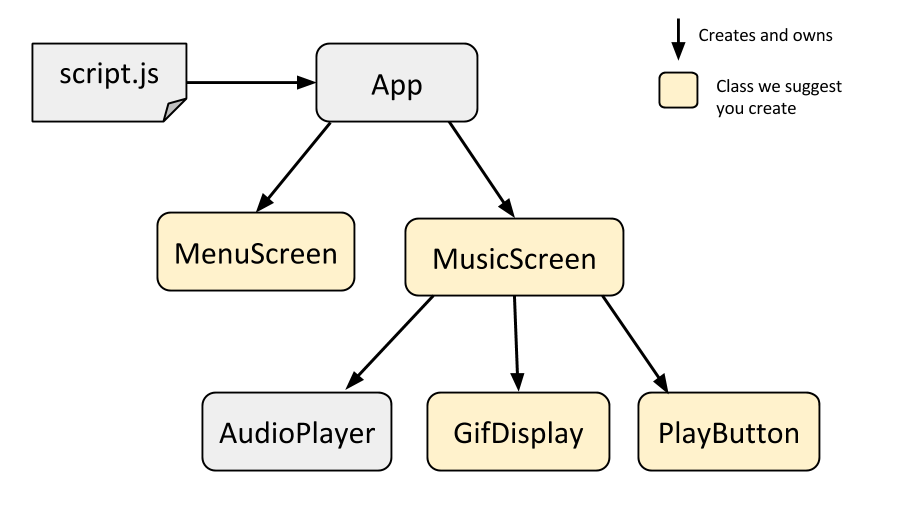
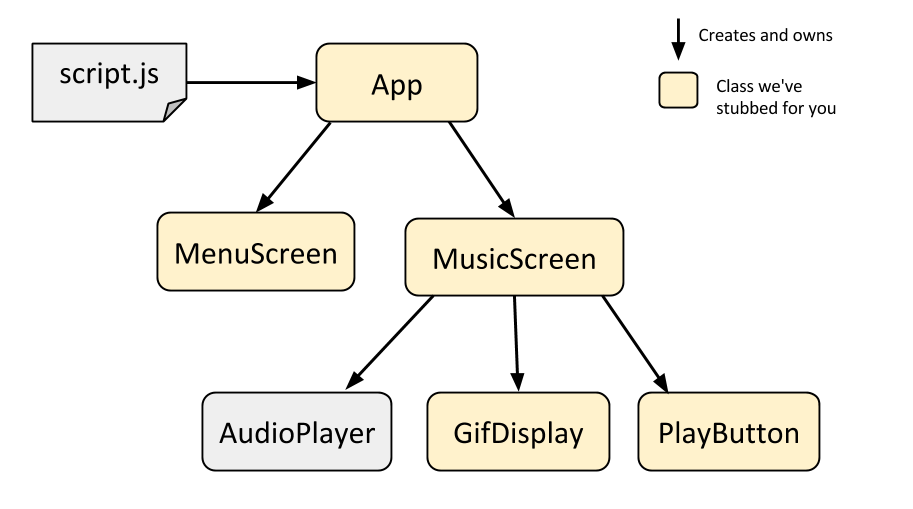
add image

Changed region(s): [[0.3373, 0.0884, 0.5214, 0.2358], [0.7667, 0.1473, 0.92, 0.2358]]

diff --git a/homework/hw4-musicbox-milestones.md b/homework/hw4-musicbox-milestones.md
@@ -2,7 +2,7 @@
 layout: article-nosidebar
 title: 'Music Box'
 subtitle: 'Homework 4'
-permalink: /homework/4-musicbox-milestones
+permalink: /homework/4-musicbox
 parent: homework
 active: 'homework'
 ---
@@ -16,8 +16,11 @@ This assignment gives you more practice with object-oriented (OO) web programmin
 
 Note that we will not grade on having good OO design. However, we do expect you to implement HW4 using an object-oriented approach. You must use classes and you **cannot** add any global state variables.
 
-<span class="label">Due Date:</span> Wed, May 17, 2017 at 11:59pm _(late cutoff: Fri, May 19, 2017 at 11:59pm)_
+<span class="label">Due Date:</span> Wed, May 17, 2017 at 11:59pm _(late cutoff: Fri, May 19, 2017 at 11:59pm)_  
 <span class="label">HW4 Turn-in:</span> [Submission Form](https://goo.gl/forms/9DvS1MGo8J3JLInN2)
+
+
+(**Special thanks to our TA Amy Xu** for her enormous help milestone-ifying the HW4 write-up!)
 
 ---
 
@@ -93,9 +96,9 @@ Method name | Description
 
  The `AudioPlayer` class uses an [Audio element](https://developer.mozilla.org/en-US/docs/Web/HTML/Element/audio) for audio playback and the [dancer.js](https://github.com/jsantell/dancer.js) library to detect kicks in the song. Dancer.js is built natively in the browser using the [Web Audio API](https://developer.mozilla.org/en-US/docs/Web/API/Web_Audio_API).
 
-### 3. `App` and `script.js`
+### 3. Class stubs and `script.js`
 {:.no_toc}
- We have created a stub `App` class that represents the entire music visualizer, similar to how the `App` class represented the entire Flashcard app in HW3. We also provide a `script.js` that creates an instance of the `App` class.
+ We have created stub classes for all the classes we expect you write write: see [Class Decomposition](#class-decomposition) for details. We also provide a `script.js` that creates an instance of the `App` class.
 
 </section>
 
@@ -107,17 +110,14 @@ We recommend you architect your program in the following way:
 
 <img src="images/hw4-class-architecture.png" class="screenshot" />
 
-Create 4 new JavaScript classes:
-- `MenuScreen` Represents the menu screen that you see when you first load the music visualizer.
-- `MusicScreen`: Represents the music visualizer screen, i.e. the screen that you see after you select a song. Creates the `AudioPlayer` as well as the classes below:
-  - `GifDisplay:` Represents the gif display area. Keeps track of which gif is being shown and can select a new random gif to be shown.
-  - `PlayButton:` Represents the play button. Clicking on it toggles audio playback.
+We have given you stubs for the following classes that we'd like you fill out:
+- `App:` Represent the music visualizer as a whole, similar to the role that the `App` class played in HW3. Creates and owns the `MenuScreen` and `MusicScreen`.
+  - `MenuScreen:` Represents the menu screen that you see when you first load the music visualizer.
+  - `MusicScreen:` Represents the music visualizer screen, i.e. the screen that you see after you select a song. Creates the `AudioPlayer` as well as the classes below:
+    - `GifDisplay:` Represents the gif display area. Keeps track of which gif is being shown and can select a new random gif to be shown.
+    - `PlayButton:` Represents the play button. Clicking on it toggles audio playback.
 
-Modify `App` to create the `MenuScreen` and the `MusicScreen`.
-
-**Hints:**
-- When you add new JavaScript files in your project, make sure to include them in your HTML (`<script src="app.js" defer></script>`).
-- To avoid errors, list them in the order of most specific (ie. file for `PlayButton`) to least specific (ie. `app.js`, `script.js`).
+**Note:** If you accepted your HW4 assignment from GitHub before 5/10 at 6:30pm, you did not receive stubs for these classes. You can see the updated starter code here: [hw4-starter](https://github.com/yayinternet/hw4-starter) (you're not missing much.)
 
 ### Optional: Using a different class breakdown
 {:.no_toc}
@@ -125,6 +125,10 @@ Modify `App` to create the `MenuScreen` and the `MusicScreen`.
 **Note:** The HW4 spec is written with the assumption that you have structured your app in the way that we've recommended above. However, you don't _have_ to follow our recommendation; you can structure your web app however you'd like. If you prefer a different class breakdown, you do not have to follow our suggestions.
 - That said, if you do choose to architect your web app in a way that's different from what we suggestion, we will grade your object-oriented design more strictly. You will probably lose points if you only make an `App` class and create no other classes, for example.
 - If you choose to use a different class breakdown, we will ask you to include a diagram of the classes you've created. You can use [Google Drawings](https://docs.google.com/drawings) or whatever graphics program of your choice to create a diagram that looks like the one we've included above. Of course, you do **not** have to do this if you've used the class decomposition that we've recommended.
+
+**Hints:**
+- If you add new JavaScript files in your project, make sure to include them in your HTML (`<script src="new-class.js" defer></script>`).
+
 </section>
 
 <section class="part" markdown="1">
@@ -206,10 +210,10 @@ Modify the HTML and CSS to create the Music screen:
 - **Hints:**
   - The `background-*` CSS properties were covered in [lecture 6](https://docs.google.com/presentation/d/1C1_y51AGjiH1k76pxpkYYwh3E9Ah7fm_8SvySpoBvhs/edit#slide=id.g20680a093f_0_671). They were also used in HW1.
 
-### MusicScreen class
+### `MusicScreen` class
 {:.no_toc}
 
-Finally, add functions to your MusicScreen class so that you can show and hide the Music screen from your App class. Test these functions and make sure they work.
+Finally, add functions to your `MusicScreen` class so that you can show and hide the Music screen from your `App` class. Test these functions and make sure they work.
 
 </section>
 
@@ -235,7 +239,7 @@ Use the following parameters:
 
 **Hints:**
 - Use `encodeURIComponent()` to escape the characters in the query for use in a URL. ([mdn](https://developer.mozilla.org/en-US/docs/Web/JavaScript/Reference/Global_Objects/encodeURIComponent))
-- Use the `fetch()` API to load the JSON results from Giphy ([lecture 16](https://docs.google.com/presentation/d/16uIU-dQrX6iBleAB9J_r9KyhUwfucCZF2wRGCi8EIAo/edit#slide=id.g21919ae439_0_681))
+- Use the `fetch()` API to load the JSON results from Giphy ([lecture 16](https://docs.google.com/presentation/d/16uIU-dQrX6iBleAB9J_r9KyhUwfucCZF2wRGCi8EIAo/edit#slide=id.g21919ae439_0_681) and [lecture 17](https://docs.google.com/presentation/d/1Rim3-IXt6yN7yny_SBv7B5NMBiYbaQEiRMUD5s66uN8/edit#slide=id.g219bfd85d1_1_32))
 
 Here is a sample query: [hot+chocolate](https://api.giphy.com/v1/gifs/search?q=hot%20chocolate&api_key=dc6zaTOxFJmzC&limit=25&rating=g) / [indented](https://gist.github.com/vrk/3dd93294a4a53970013dbc23ae7008b9)
 
@@ -253,9 +257,7 @@ At this point, submitting the Menu form should correctly query the Giphy API, st
 
 <section class="part" markdown="1">
 
-## Milestone D: Audio playback and PlayButton
-
-**todo**(vrk): I changed this from `MenuScreen` to `MusicScreen`, but wanted to check if that is correct?
+## Milestone D: Audio playback and `PlayButton`
 
 Now, it's time to add audio and change the gif when the `AudioPlayer` detects a kick.
 
@@ -283,34 +285,6 @@ At the end of this milestone, your app has all of the major parts that it needs 
 <section class="part" markdown="1">
 
 ## Milestone E: Optimization for a better user experience
-
-### Image preloading
-{:.no_toc}
-
-When you receive the list of gifs from Giphy, you should **preload** all of the images for smoother playback. You can put the image preloading logic in the `GifDisplay` class.
-
-You can preload images by creating offscreen `<img>` elements for each gif that you receive from the Giphy API.  You will not actually render these `<img>` elements, since you should display the gifs using the `background-image` CSS property instead of the `<img>` tag. You are just using the `<img>` tag as vessels to download the image data.
-
-**To preload an image, do the following:**
-- Create a new `Image` object ([mdn](https://developer.mozilla.org/en-US/docs/Web/API/HTMLImageElement/Image))
-- Set the `src` of this `Image` to the URL of the gif, e.g. `image.src = json.data[0].images.downsized.url;`
-- When the image has finished loading, the `Image` element will fire the `load` event ([mdn](https://developer.mozilla.org/en-US/docs/Web/Events/load)).
-- When the `load` event fires for the `Image`, you can then preload the next gif by repeating these steps.
-
-You should save your preloaded `Image`s in an array, then save that array as an instance variable of the `GifDisplay` class so that it does not get garbage collected.
-- When choosing a random gif to display, you should only choose from the images **that have been preloaded**.
-
-The final **`MenuScreen` to `MusicScreen` transition** should work as follows:
-
-When the user submits the form on the `MenuScreen` with a valid Giphy query:
-1. `App` should hide the `MenuScreen`
-2. The `MusicScreen` should stay hidden[\*](#loading-screen) as it tells `GifDisplay` to begin preloading images from the Giphy results.
-3. After the `GifDisplay` has preloaded 2 images:
-  - The `GifDisplay` class should set its foreground and background gif layers to the two preloaded images.
-  - The `GifDisplay` class should notify the `MusicScreen` that it is ready to begin audio playback.
-4. When `MusicScreen` is notified by `GifDisplay` that it is ready, the `MusicScreen` should show itself and begin audio playback:
-  - When `AudioPlayer` detects a kick, `MusicScreen` should tell `GifDisplay` to change to a new random background.
-5. The `GifDisplay` class should continue preloading the rest of the images from the Giphy results.
 
 ### Double buffering
 {:.no_toc}
@@ -346,6 +320,47 @@ After the user submits the Menu form, check what the query returns before showin
 
 ## Extra Credit
 
+### Image preloading
+{:.no_toc}
+
+If you are not on a very fast internet connection, the transitions between your gifs might still be laggy because don't have enough time to download before they are displayed.
+
+To further improve this experience, you can **preload** all of the images when you receive the list of gifs from Giphy. You can put the image preloading logic in the `GifDisplay` class.
+
+You can preload images by creating offscreen `<img>` elements for each gif that you receive from the Giphy API.  You will not actually render these `<img>` elements, since you should display the gifs using the `background-image` CSS property instead of the `<img>` tag. You are just using the `<img>` tag as vessels to download the image data.
+
+**To preload an image, do the following:**
+- Create a new `Image` object ([mdn](https://developer.mozilla.org/en-US/docs/Web/API/HTMLImageElement/Image))
+- Set the `src` of this `Image` to the URL of the gif, e.g. `image.src = json.data[0].images.downsized.url;`
+- When the image has finished loading, the `Image` element will fire the `load` event ([mdn](https://developer.mozilla.org/en-US/docs/Web/Events/load)).
+- When the `load` event fires for the `Image`, you can then preload the next gif by repeating these steps.
+
+You should save your preloaded `Image`s in an array, then save that array as an instance variable of the `GifDisplay` class so that it does not get garbage collected.
+- When choosing a random gif to display, you should only choose from the images **that have been preloaded**.
+
+**Random preloaded image**
+- Now when you show a random gif, you should only choose the images you've already preloaded.
+- As you preload more images, you can then include them in the pool of possible images from which you are randomly selecting.
+
+**Testing**
+- You can simulate a weak internet connection via Chrome Web tools: [screenshot](images/hw4-poor-network.png)
+  - Open the Chrome inspector and click the "Network" tab
+  - Click the throttling dropdown menu -- currently set to "No throttling"
+  - Select something like "Regular 4G".
+    - Note: Anything less than 4G will probably take a long time for the audio to begin playing due to the MP3 size, since we are not streaming the audio files.
+
+The final **`MenuScreen` to `MusicScreen` transition** should work as follows:
+
+When the user submits the form on the `MenuScreen` with a valid Giphy query:
+1. `App` should hide the `MenuScreen`
+2. The `MusicScreen` should stay hidden[\*](#loading-screen) as it tells `GifDisplay` to begin preloading images from the Giphy results.
+3. After the `GifDisplay` has preloaded 2 images:
+  - The `GifDisplay` class should set its foreground and background gif layers to the two preloaded images.
+  - The `GifDisplay` class should notify the `MusicScreen` that it is ready to begin audio playback.
+4. When `MusicScreen` is notified by `GifDisplay` that it is ready, the `MusicScreen` should show itself and begin audio playback:
+  - When `AudioPlayer` detects a kick, `MusicScreen` should tell `GifDisplay` to change to a new random background.
+5. The `GifDisplay` class should continue preloading the rest of the images from the Giphy results.
+
 ### Loading screen
 {:.no_toc}
 
@@ -360,12 +375,29 @@ After the user submits the Menu form, check what the query returns before showin
 
 </section>
 
+<section class="part" markdown="1">
+
+## Helpful examples and style requirements
+
 ### Helpful examples
 {:.no_toc}
+
+Here are some examples you may find useful while implementing the assignment:
 
 - **HTML and CSS**
   - [Top and bottom control bars](https://codepen.io/bee-arcade/pen/2f97b2cdfc04949c2c73dda852f739d7?editors=1100)
   - [Absolutely positioned layers](http://codepen.io/bee-arcade/pen/54cd4c36b43e4ffd30c5bafc0eb4e9c4?editors=1100)
+  - Form elements:
+    - [Select box](https://codepen.io/bee-arcade/pen/963ae17d61f828a7b5c321c148b84e40?editors=1011)
+    - [Form submit](https://github.com/yayinternet/lecture17/tree/master/spotify-albums) / [demo](https://yayinternet.github.io/lecture17/spotify-albums/spotify-discography.html)
+      - See also end of [lecture 17](https://docs.google.com/presentation/d/1Rim3-IXt6yN7yny_SBv7B5NMBiYbaQEiRMUD5s66uN8/edit#slide=id.g219bfd85d1_1_32) for explanation for form submit
+- **Fetch API**
+  - [Fetching JSON: simple](https://github.com/yayinternet/lecture17/blob/master/albums/fetch-json.js) / [demo](https://yayinternet.github.io/lecture17/albums/fetch-json.html)
+  - [Fetching JSON: from a class](https://codepen.io/bee-arcade/pen/1169a5760153ee5f6877a8b6f7c30521) / [GitHub](https://github.com/yayinternet/lecture17/tree/master/oo-albums) / [Demo](https://yayinternet.github.io/lecture17/oo-albums/discography.html)
+  - [Fetching JSON: from Spotify](https://github.com/yayinternet/lecture17/tree/master/spotify-albums) / [demo](https://yayinternet.github.io/lecture17/spotify-albums/spotify-discography.html)
+  - Lectures:
+    - [lecture 16](https://docs.google.com/presentation/d/16uIU-dQrX6iBleAB9J_r9KyhUwfucCZF2wRGCi8EIAo/edit#slide=id.p) introduces `fetch()`
+    - [lecture 17](https://docs.google.com/presentation/d/1Rim3-IXt6yN7yny_SBv7B5NMBiYbaQEiRMUD5s66uN8/edit#slide=id.g219bfd85d1_1_32) shows `fetch()` in a class and `fetch()`ing JSON
 - **For `AudioPlayer` and detecting kicks:**
   - [`AudioPlayer` demo](https://yayinternet.github.io/hw4-music/audio-player-demo/index.html): This example shows how to create and use the `AudioPlayer` class.
 - **General OO; communicating between classes:**
@@ -382,8 +414,9 @@ You will not be graded on OO-design skills, so do not worry too much about havin
 Here are some more details on what we are looking for in terms of style:
 
 - **One class definition per script file:** You should define one class per file.
-- **No additional global variables:** For full credit, you may **not** add any additional global variables to the Flashcard app, other than the existing `app` variable defined in `main.js` and the `FLASHCARD_DECKS` in `constants.js`.
+- **No additional global variables:** For full credit, you may **not** add any additional global variables to your Music Box app, other than the existing `app` variable defined in `script.js`.
 - **Use ES6 classes:** To complete this assignment, you do not need to know about other ways of creating objects, such as via `prototype`. You should practice using `class`es as described in lecture.
+- **Use `fetch()`:** You should use the native `fetch()` API for requests as shown in lecture, and you should not use e.g. `XMLHttpRequest` or any jQuery to load files.
 - **OO-design:** We are **not** going to grade on object-oriented design. We may award bonus points for particularly well-composed apps, but your main concern should be to get the functionality working.
 - **Comments, variable names, etc.:** We are also **not** grading on general good coding style, such as having comments or using good variable names. However, we encourage you to practice good coding style for your TAs' sake! We will only dock style points if someone's code is so extremely difficult to read that it impedes your TA's ability to grade your assignment.
 

diff --git a/index.md b/index.md
@@ -15,7 +15,8 @@ Welcome to CS193X: Web Programming Fundamentals! This is an opinionated introduc
 **CS193X is limited enrollment.** This is the first offering of CS193X, so enrollment is limited and by application only. It will be offered again sometime in the 2017-2018 school year.
 
 ## Announcements
-- [5/8] [Homework 4](homework/4-musicbox) is released and is due **Wed, May 17 at 11:59pm** 
+- [5/10] [Homework 4](homework/4-musicbox) adjustments: Preloading is now extra credit, and the spec is restructured in terms of milestones. See writeup for changes and more details!
+- [5/8] [Homework 4](homework/4-musicbox) is released and is due **Wed, May 17 at 11:59pm**
 - [5/1] We made some changes to the course logistics, grading, and schedule. See [May 1 lecture slides](https://docs.google.com/presentation/d/1E2CvOxrtxF9clb3xqlyWAVX1x5q0YNk6t08Iteb9W_Y/edit#slide=id.g1ddf57744b_0_260) or [syllabus](syllabus) / [course info](info) for details.
 - [4/28] [Homework 3](homework/3-flashcards) is released and is due **Mon, May 8 at 11:59pm** (<em>was: May 5, but extended to the 8th</em>)
 - [4/19] [Homework 2](homework/2-quiz-ext) is released and is due **Fri, Apr 28 at 11:59pm** (<em>was: Apr 26, but extended to the 28th</em>)

diff --git a/homework.md b/homework.md
@@ -9,7 +9,7 @@ Listed below are the released assignments for CS193X. More will be posted here a
 
 ## Homework 4
 - [Homework 4: Music Box](4-musicbox)
-- Due **Mon, May 17 2017** at 11:59pm
+- Due **Wed, May 17 2017** at 11:59pm
 - HW4 Turn-in: [Submission Form](https://goo.gl/forms/9DvS1MGo8J3JLInN2)
 
 ## Homework 3

diff --git a/homework/hw4-musicbox.md b/homework/hw4-musicbox.md
@@ -2,7 +2,7 @@
 layout: article-nosidebar
 title: 'Music Box'
 subtitle: 'Homework 4'
-permalink: /homework/4-musicbox
+permalink: /homework/4-musicbox-old-version
 parent: homework
 active: 'homework'
 ---
